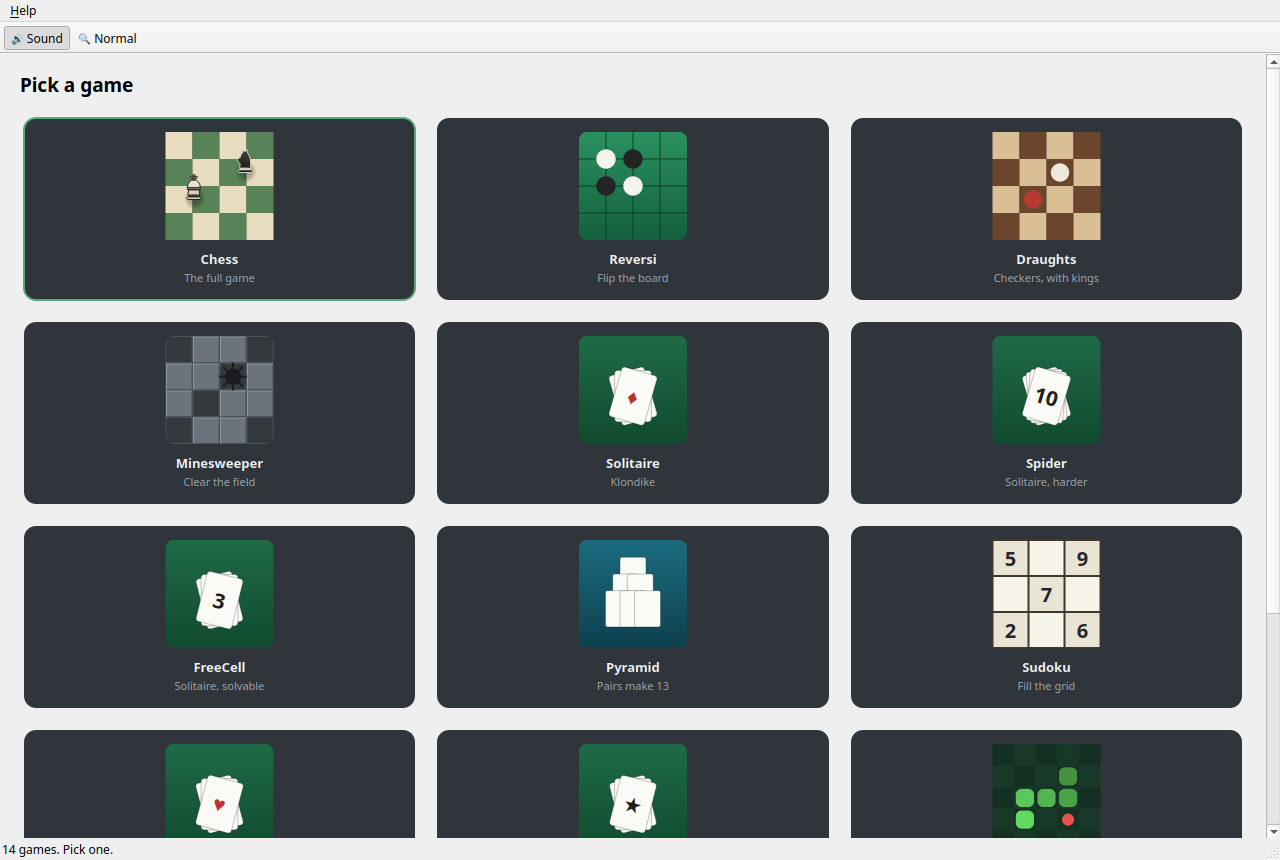
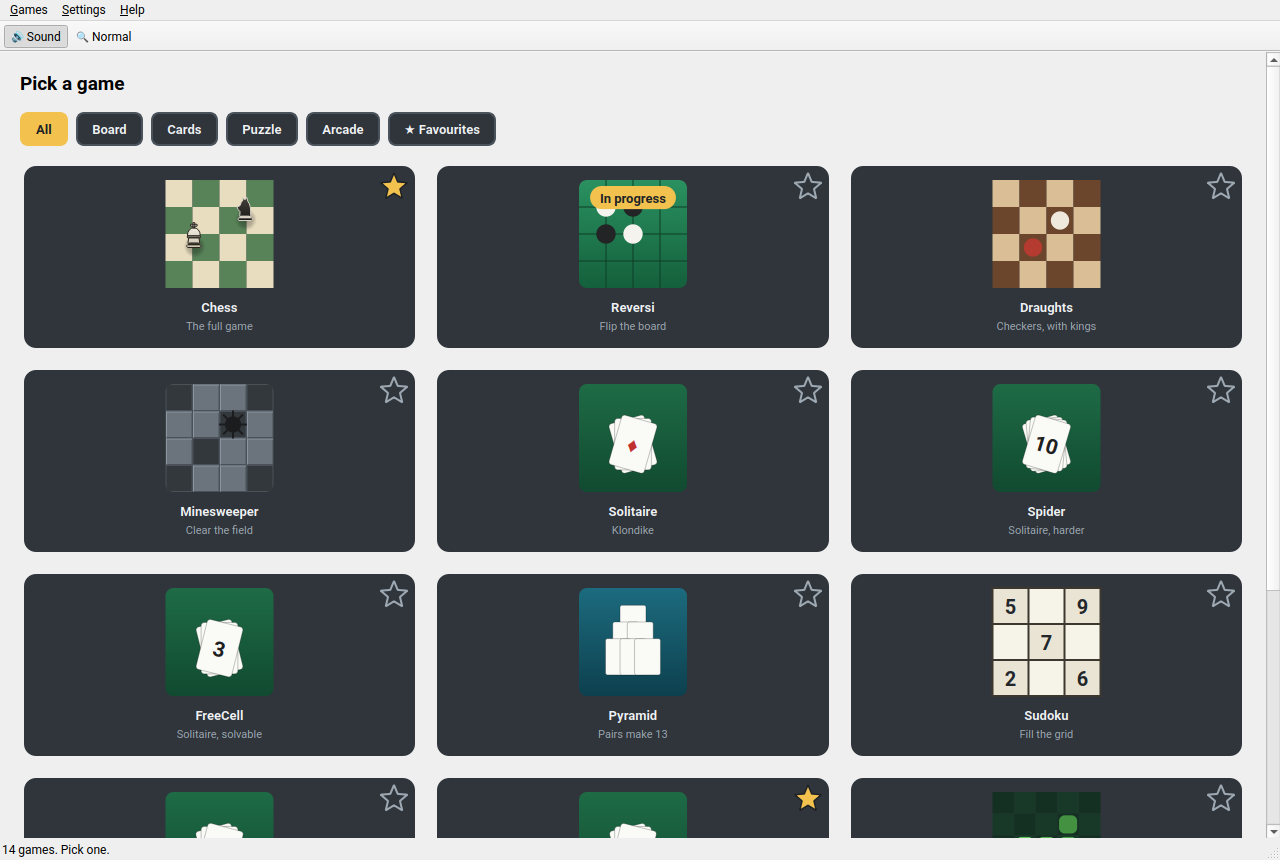
content(games-hub): retaken start screen for 1.3.0; turn light has no outline
The 1.3.0 tiles screenshot shows the filter row, a favourite star and an
"In progress" mark; its alt text says so. The turn-light sentence drops the
gold outline and the claim that it does not depend on colour (GHUB-0217
removed the ring), per games-hub msg 1199.

write-doc: short path; local-CI.sh passed

diff --git a/src/about/games-hub.md b/src/about/games-hub.md
@@ -54,9 +54,9 @@ and Minesweeper the numbers and labels grow.
 
 **In Hearts, Canasta, Chess, Draughts and Reversi, a soft gold light settles on
 whoever's turn it is**, so you can see whose move it is without reading anything.
-When the turn passes, one light fades out as the next fades in. It has a gold
-outline as well as a glow, so it does not depend on seeing the colour, and it grows
-stronger with Large switched on.
+When the turn passes, one light fades out as the next fades in. The light is a
+soft glow around their place at the table, and it grows stronger with Large
+switched on.
 
 **The board games and the card games play from the keyboard**, and so does
 Minesweeper. In Chess, Reversi, Draughts and Minesweeper the arrow keys move a

diff --git a/CHANGELOG.md b/CHANGELOG.md
@@ -17,6 +17,7 @@ so dated sections stand in for versions. Planned work lives in
   Its main screenshot is retaken, showing the tick column beside the play button.
 
 - **Games Hub's page covers 1.3.0: a Games menu, "In progress" marks, filter buttons and favourites, one Preferences window, and a window that stays put**
+  Its start-screen screenshot is retaken to show them, and the turn light is described as the glow it now is, with no outline.
 
 - **frameledger's page covers its second release: comparing two builds, finding the change that slowed a frame, time budgets and frame pacing**
 
